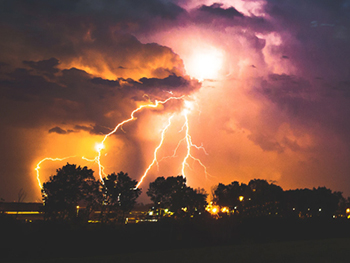
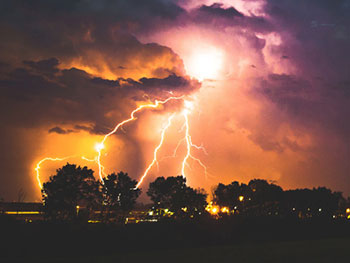
Initial commit

diff --git a/lesson7/gallery-7.html b/lesson7/gallery-7.html
@@ -54,7 +54,7 @@
     <figure>
         <source media="(max-width: 150px)" srcset="/lesson7/weather1-assets/weather1-1.png">
         <source media="(max-width: 250px)" srcset="/lesson7/weather1-assets/weather1.png">
-        <source media="(max-width: 350px)" srcset="/lesson7/weather1.jpf">
+        <source media="(max-width: 350px)" srcset="/lesson7/weather1.jpg">
         <img src="/lesson7/placeholderhoriz.png" data-src="/lesson7/weather1.jpg" alt="Lightening Storm">
         <figcaption>Lightening Storm</figcaption>
         </figure>
